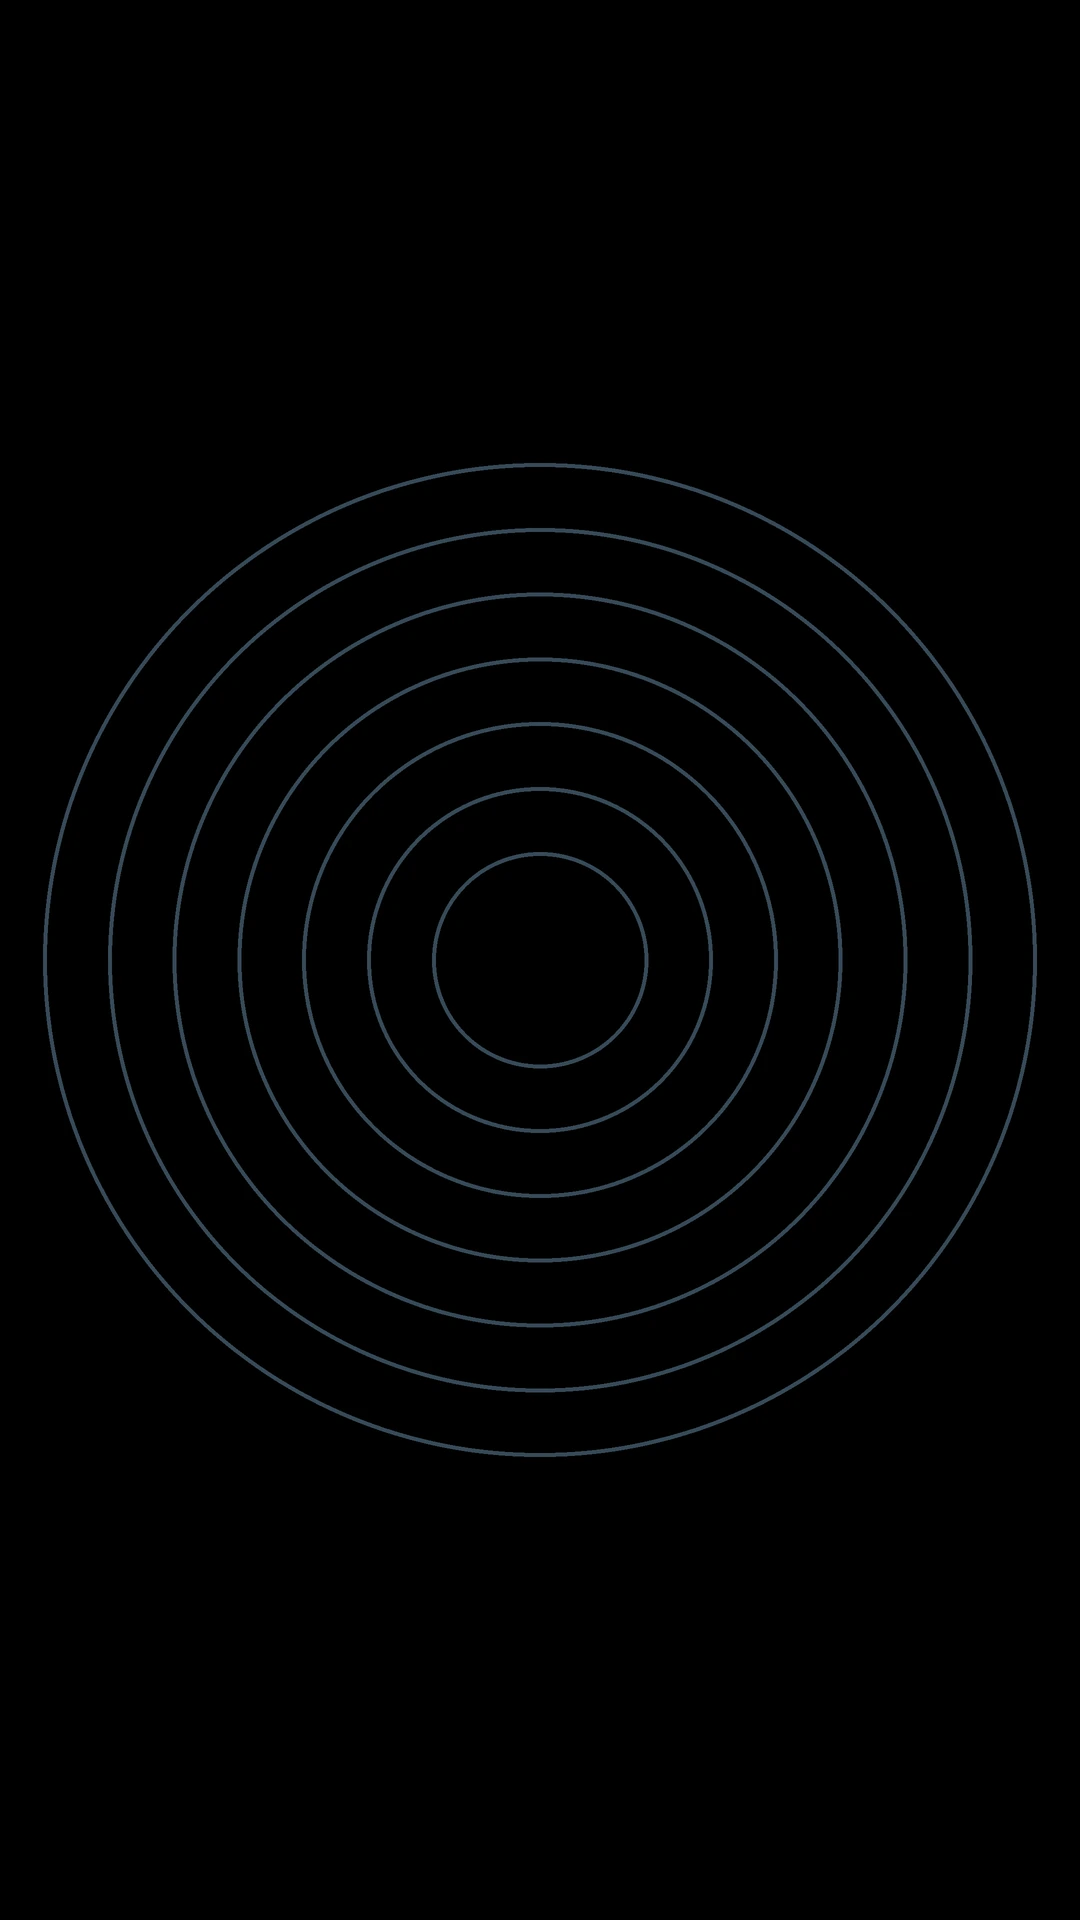
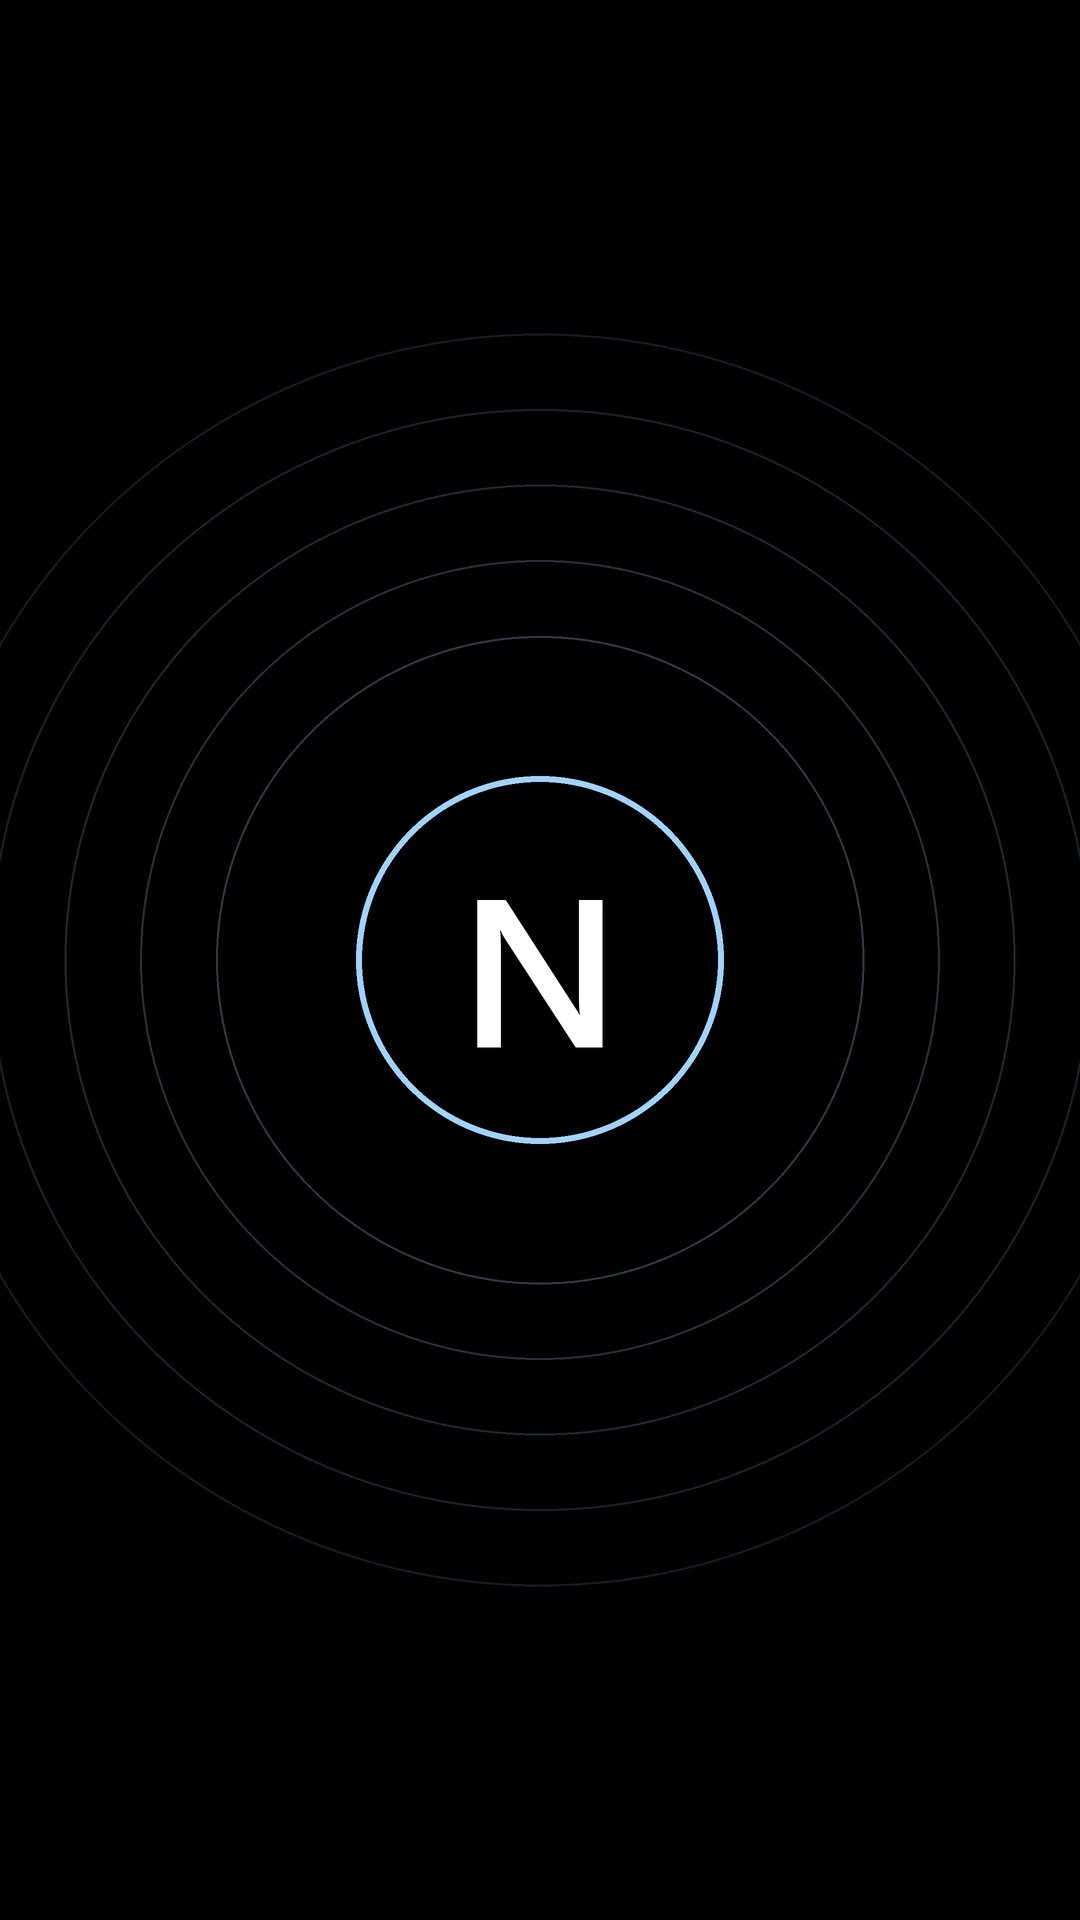
Заставка: пульсирующая N в круге (рисуется кодом, цикл 1 с, повтор при подвисании), одинаково в вебе и на Android

diff --git a/lib/widgets/splash_gate.dart b/lib/widgets/splash_gate.dart
@@ -1,15 +1,14 @@
 import 'dart:async';
 
-import 'package:flutter/foundation.dart' show kIsWeb;
+import 'dart:math' as math;
 import 'package:flutter/material.dart';
-import 'package:video_player/video_player.dart';
 
 import '../services/local_db_service.dart';
 
-/// Заставка при запуске приложения: видео на чёрном фоне, пока под ним уже
-/// готово приложение. Показывается один раз за запуск (смена языка и прочие
-/// пересборки её не повторяют), касание пропускает. Если видео не удалось
-/// запустить (нет плагина, ошибка декодера), приложение открывается сразу.
+/// Заставка при запуске: буква N в круге с пульсацией и слабым движением
+/// колец на чёрном фоне (рисуется кодом — без видео, старт мгновенный).
+/// Один цикл [cycleMs]; если приложение под ней ещё не готово и кадры
+/// «подвисли», цикл просто повторяется. Один раз за запуск, касание пропускает.
 class SplashGate extends StatefulWidget {
   final Widget child;
   final bool enabled;
@@ -18,8 +17,11 @@ class SplashGate extends StatefulWidget {
 
   static bool _played = false;
 
-  /// Сколько максимум держится заставка (мс), даже если видео длиннее.
-  static const int maxMs = 2400;
+  /// Сколько держится заставка (мс).
+  static const int maxMs = 1000;
+
+  /// Длительность одного цикла пульсации (мс).
+  static const int cycleMs = 1000;
 
   /// Настройка «Заставка при запуске» (по умолчанию включена).
   static bool isOn(LocalDbService db) {
@@ -36,8 +38,9 @@ class SplashGate extends StatefulWidget {
   State<SplashGate> createState() => _SplashGateState();
 }
 
-class _SplashGateState extends State<SplashGate> {
-  VideoPlayerController? _c;
+class _SplashGateState extends State<SplashGate> with SingleTickerProviderStateMixin {
+  late final AnimationController _a =
+      AnimationController(vsync: this, duration: const Duration(milliseconds: SplashGate.cycleMs));
   bool _showing = false;
   bool _fading = false;
   Timer? _guard;
@@ -48,59 +51,31 @@ class _SplashGateState extends State<SplashGate> {
     if (!widget.enabled || SplashGate._played) return;
     SplashGate._played = true;
     _showing = true;
-    _start();
-  }
-
-  Future<void> _start() async {
-    try {
-      final c = VideoPlayerController.asset('assets/video/intro.mp4');
-      _c = c;
-      await c.initialize().timeout(const Duration(seconds: 6));
-      if (!mounted) return;
-      // В браузере звук без жеста пользователя запрещён — там играем без него.
-      await c.setVolume(kIsWeb ? 0 : 1);
-      c.addListener(_onTick);
-      await c.play();
-      setState(() {});
-      // Страховка: заставка не должна зависнуть, даже если видео «застыло».
-      // Не дольше SplashGate.maxMs: приложение под заставкой уже готово.
-      _guard = Timer(const Duration(milliseconds: SplashGate.maxMs), _finish);
-    } catch (_) {
-      _finish();
-    }
-  }
-
-  void _onTick() {
-    final v = _c?.value;
-    if (v == null || !v.isInitialized) return;
-    if (v.hasError || v.position >= v.duration) _finish();
+    _a.repeat();
+    _guard = Timer(const Duration(milliseconds: SplashGate.maxMs), _finish);
   }
 
   void _finish() {
     if (!mounted || _fading || !_showing) return;
     _guard?.cancel();
     setState(() => _fading = true);
-    // После плавного исчезновения освобождаем плеер.
-    Future<void>.delayed(const Duration(milliseconds: 450), () {
+    Future<void>.delayed(const Duration(milliseconds: 300), () {
       if (!mounted) return;
       setState(() => _showing = false);
-      _c?.dispose();
-      _c = null;
+      _a.stop();
     });
   }
 
   @override
   void dispose() {
     _guard?.cancel();
-    _c?.dispose();
+    _a.dispose();
     super.dispose();
   }
 
   @override
   Widget build(BuildContext context) {
     if (!_showing) return widget.child;
-    final c = _c;
-    final ready = c != null && c.value.isInitialized;
     return Stack(children: [
       widget.child,
       Positioned.fill(
@@ -108,17 +83,16 @@ class _SplashGateState extends State<SplashGate> {
           ignoring: _fading,
           child: AnimatedOpacity(
             opacity: _fading ? 0 : 1,
-            duration: const Duration(milliseconds: 400),
+            duration: const Duration(milliseconds: 280),
             child: GestureDetector(
               behavior: HitTestBehavior.opaque,
-              onTap: _finish, // касание пропускает заставку
+              onTap: _finish,
               child: ColoredBox(
-                color: Colors.black, // фон видео — чистый чёрный, шва нет
-                child: ready
-                    ? Center(
-                        child: AspectRatio(aspectRatio: c.value.aspectRatio, child: VideoPlayer(c)),
-                      )
-                    : const SizedBox.expand(),
+                color: Colors.black,
+                child: AnimatedBuilder(
+                  animation: _a,
+                  builder: (_, __) => CustomPaint(painter: _NexusPulsePainter(_a.value), size: Size.infinite),
+                ),
               ),
             ),
           ),
@@ -126,4 +100,55 @@ class _SplashGateState extends State<SplashGate> {
       ),
     ]);
   }
+}
+
+/// Кадр заставки; t — фаза цикла 0..1 (в конце равна началу, шва нет).
+class _NexusPulsePainter extends CustomPainter {
+  final double t;
+  _NexusPulsePainter(this.t);
+
+  @override
+  void paint(Canvas canvas, Size size) {
+    final c = size.center(Offset.zero);
+    final u = math.min(size.width, size.height);
+    final ph = t * 2 * math.pi;
+    final pulse = 1 + 0.06 * math.sin(ph);
+    const blue = Color(0xFF9FD3FF);
+    // слабое движение колец: радиус «дышит», соседние кольца в противофазе
+    for (var i = 0; i < 5; i++) {
+      final r = u * (0.30 + 0.07 * i) + u * 0.006 * math.sin(ph + i * 1.2);
+      canvas.drawCircle(
+          c,
+          r,
+          Paint()
+            ..style = PaintingStyle.stroke
+            ..strokeWidth = math.max(1.2, u * 0.0022)
+            ..color = blue.withValues(alpha: 0.28 - 0.045 * i));
+    }
+    // круг с буквой N
+    final r0 = u * 0.17 * pulse;
+    canvas.drawCircle(
+        c,
+        r0 * 1.5,
+        Paint()
+          ..shader = RadialGradient(colors: [blue.withValues(alpha: 0.20), blue.withValues(alpha: 0)])
+              .createShader(Rect.fromCircle(center: c, radius: r0 * 1.5)));
+    canvas.drawCircle(
+        c,
+        r0,
+        Paint()
+          ..style = PaintingStyle.stroke
+          ..strokeWidth = math.max(2.0, u * 0.008)
+          ..color = blue);
+    final tp = TextPainter(
+      text: TextSpan(
+          text: 'N',
+          style: TextStyle(color: Colors.white, fontSize: r0 * 1.15, fontWeight: FontWeight.w600, height: 1)),
+      textDirection: TextDirection.ltr,
+    )..layout();
+    tp.paint(canvas, c - Offset(tp.width / 2, tp.height / 2));
+  }
+
+  @override
+  bool shouldRepaint(_NexusPulsePainter o) => o.t != t;
 }

diff --git a/lib/main.dart b/lib/main.dart
@@ -416,7 +416,7 @@ class _ShootingAppState extends State<ShootingApp> with WidgetsBindingObserver {
             // которой ничего нет. Подключение к базе живёт в настройках.
             home: SplashGate(
               // В вебе заставка играет прямо в index.html и прячет загрузку страницы.
-              enabled: widget.showSplash && !kIsWeb && SplashGate.isOn(widget.db),
+              enabled: widget.showSplash && SplashGate.isOn(widget.db),
               child: _ProfileGate(db: widget.db, require: widget.requireProfile),
             ),
           );

diff --git a/tools/gen_backgrounds.py b/tools/gen_backgrounds.py
@@ -12,7 +12,7 @@ import math
 import os
 import random
 
-from PIL import Image, ImageChops, ImageDraw, ImageFilter
+from PIL import Image, ImageChops, ImageDraw, ImageFilter, ImageFont
 
 ORANGE = (255, 106, 19)
 
@@ -118,10 +118,16 @@ def make(kind, theme, w, h):
         radial(img, cx, cy, int(W * 0.85), t['glow'], 0.38 if dark else 0.50)
         target(img, cx, cy, [step * k for k in range(1, 7)], ring, 0.34 if dark else 0.28, 0.78, lw)
     elif kind == 'launch':
+        # первый кадр заставки (совпадает с lib/widgets/splash_gate.dart): N в круге и кольца
         base = Image.new('RGB', (W, H), (0, 0, 0) if dark else (244, 246, 248))
         cx, cy = W / 2, H / 2
         col = (159, 211, 255) if dark else (18, 54, 94)
-        target(base, cx, cy, [W * (0.10 + 0.06 * i) for i in range(7)], col, 0.35, 1.0, lw * 2)
+        target(base, cx, cy, [W * (0.30 + 0.07 * i) for i in range(5)], col, 0.28, 0.84, lw)
+        r0 = W * 0.17
+        d = ImageDraw.Draw(base)
+        d.ellipse([cx - r0, cy - r0, cx + r0, cy + r0], outline=col, width=lw * 3)
+        f = ImageFont.truetype('C:/Windows/Fonts/segoeuisb.ttf' if os.path.exists('C:/Windows/Fonts/segoeuisb.ttf') else 'C:/Windows/Fonts/seguisb.ttf', int(r0 * 1.15))
+        d.text((cx, cy), 'N', font=f, fill=(255, 255, 255) if dark else (18, 54, 94), anchor='mm')
         img = base
     return img.resize((w, h), Image.LANCZOS)
 
